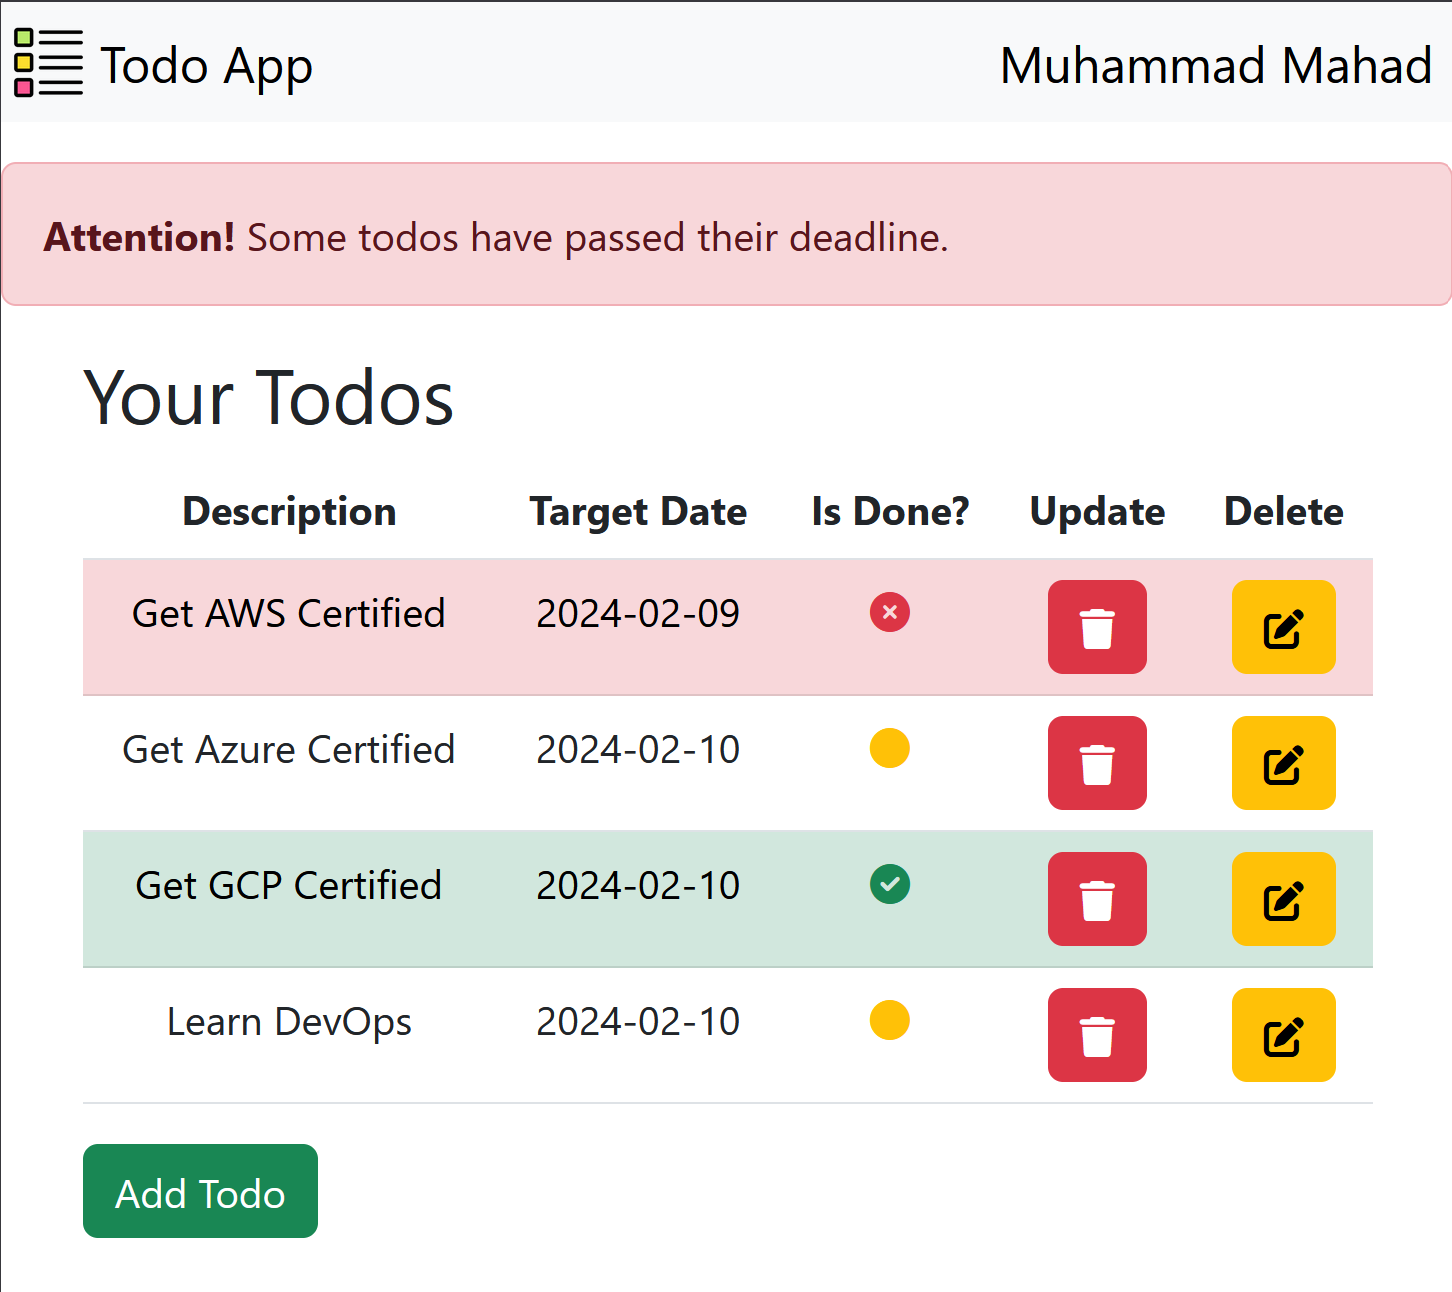
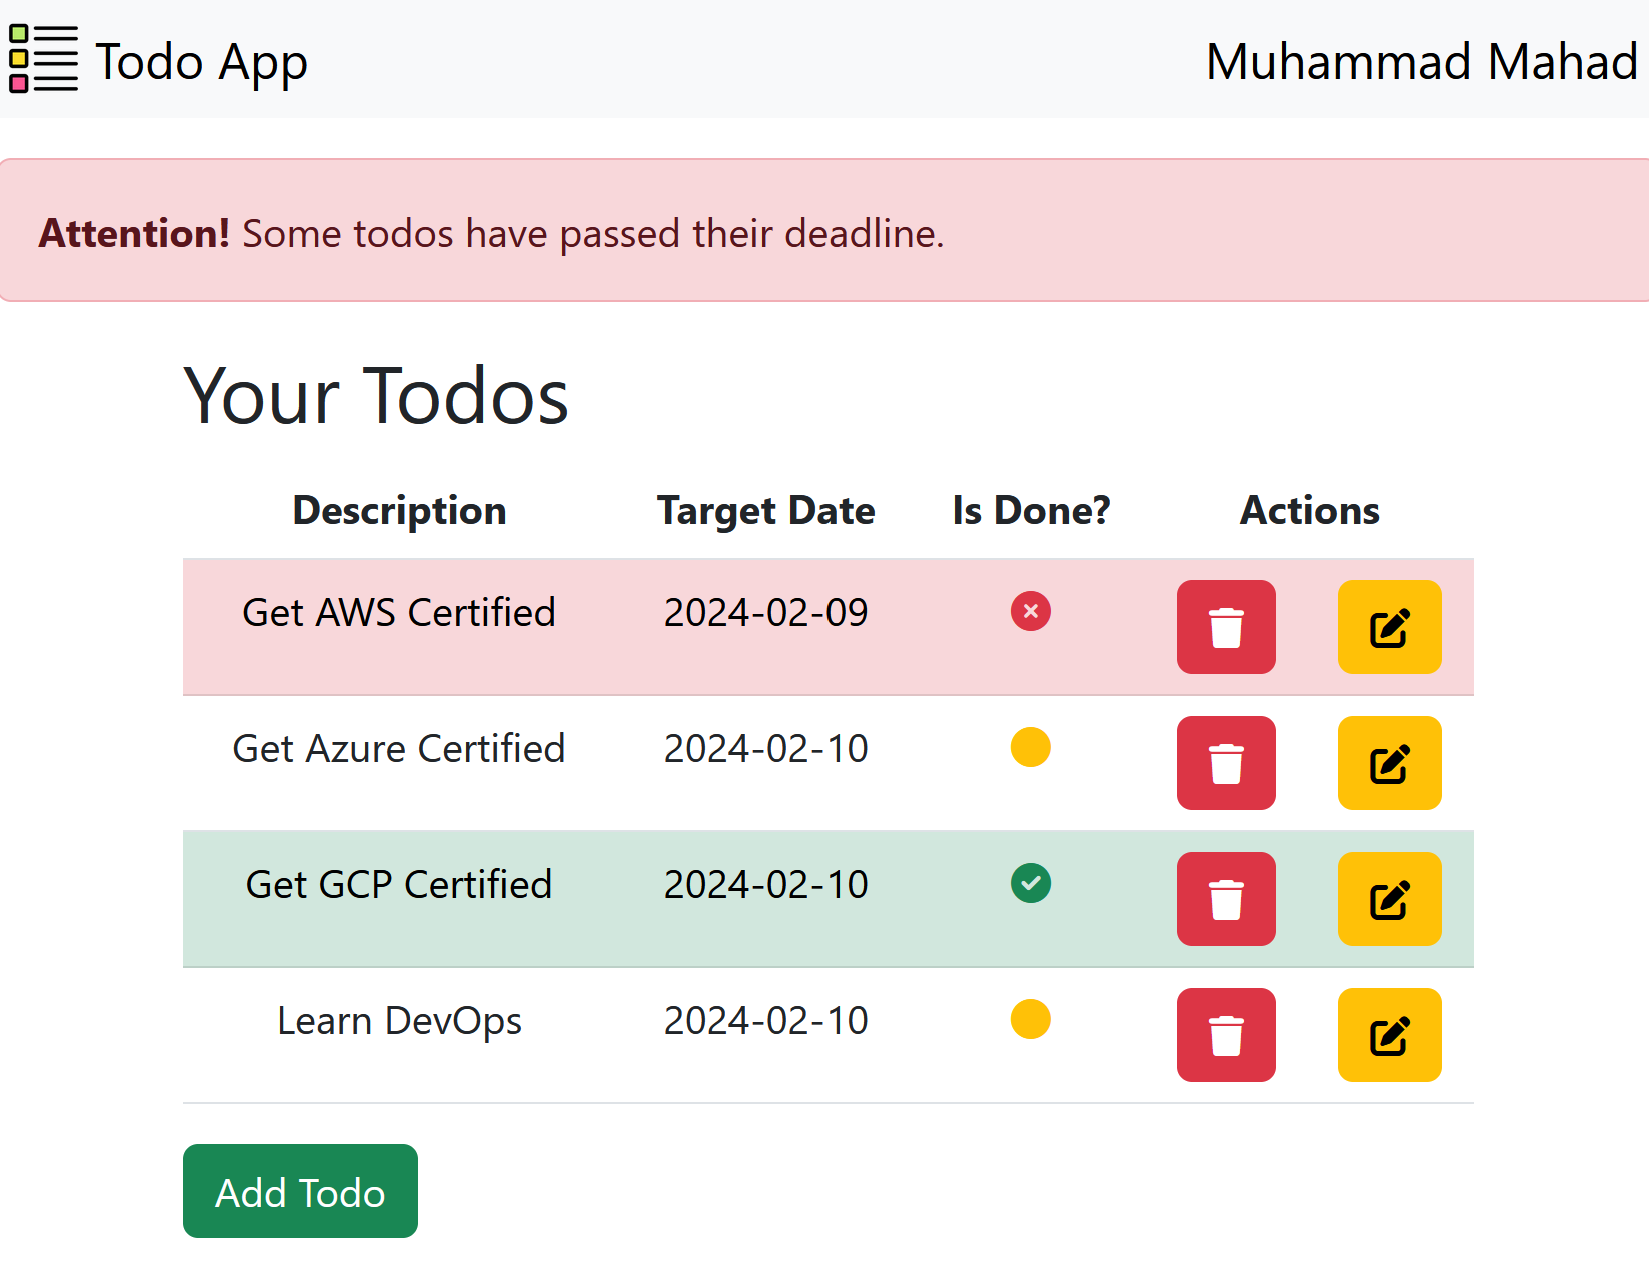
update SS

diff --git a/src/main/resources/templates/todos.html b/src/main/resources/templates/todos.html
@@ -44,8 +44,7 @@
 						<th>Description</th>
 						<th>Target Date</th>
 						<th>Is Done?</th>
-				        <th>Delete</th>
-				        <th>Update</th>
+				        <th colSpan="2">Actions</th>
 					</tr>
 				</thead>
 				<tbody>
